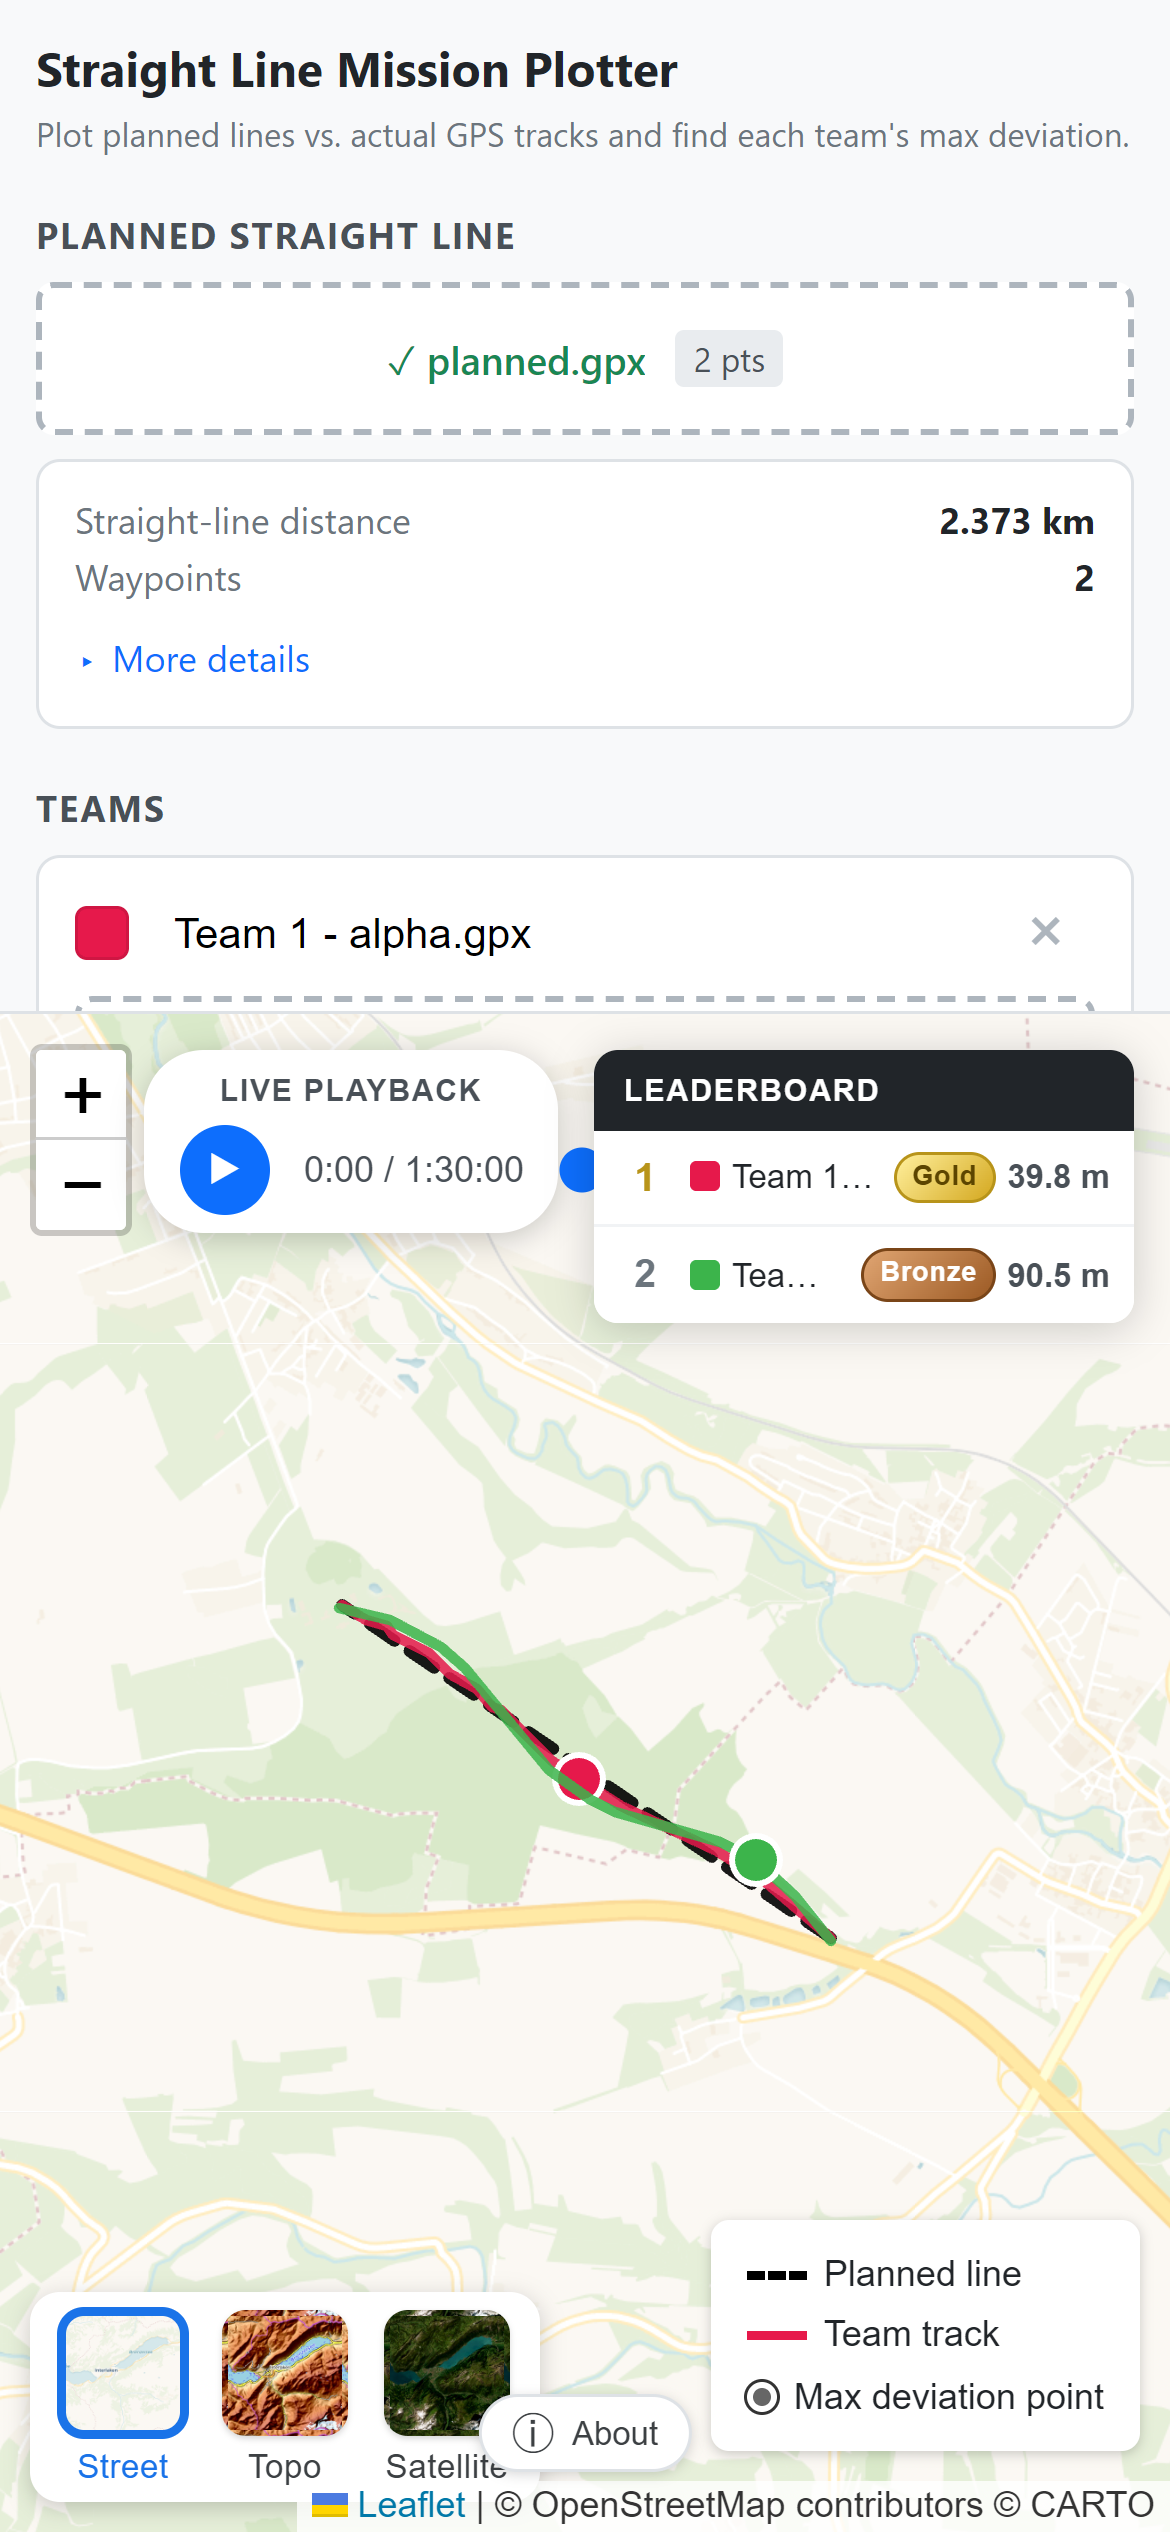
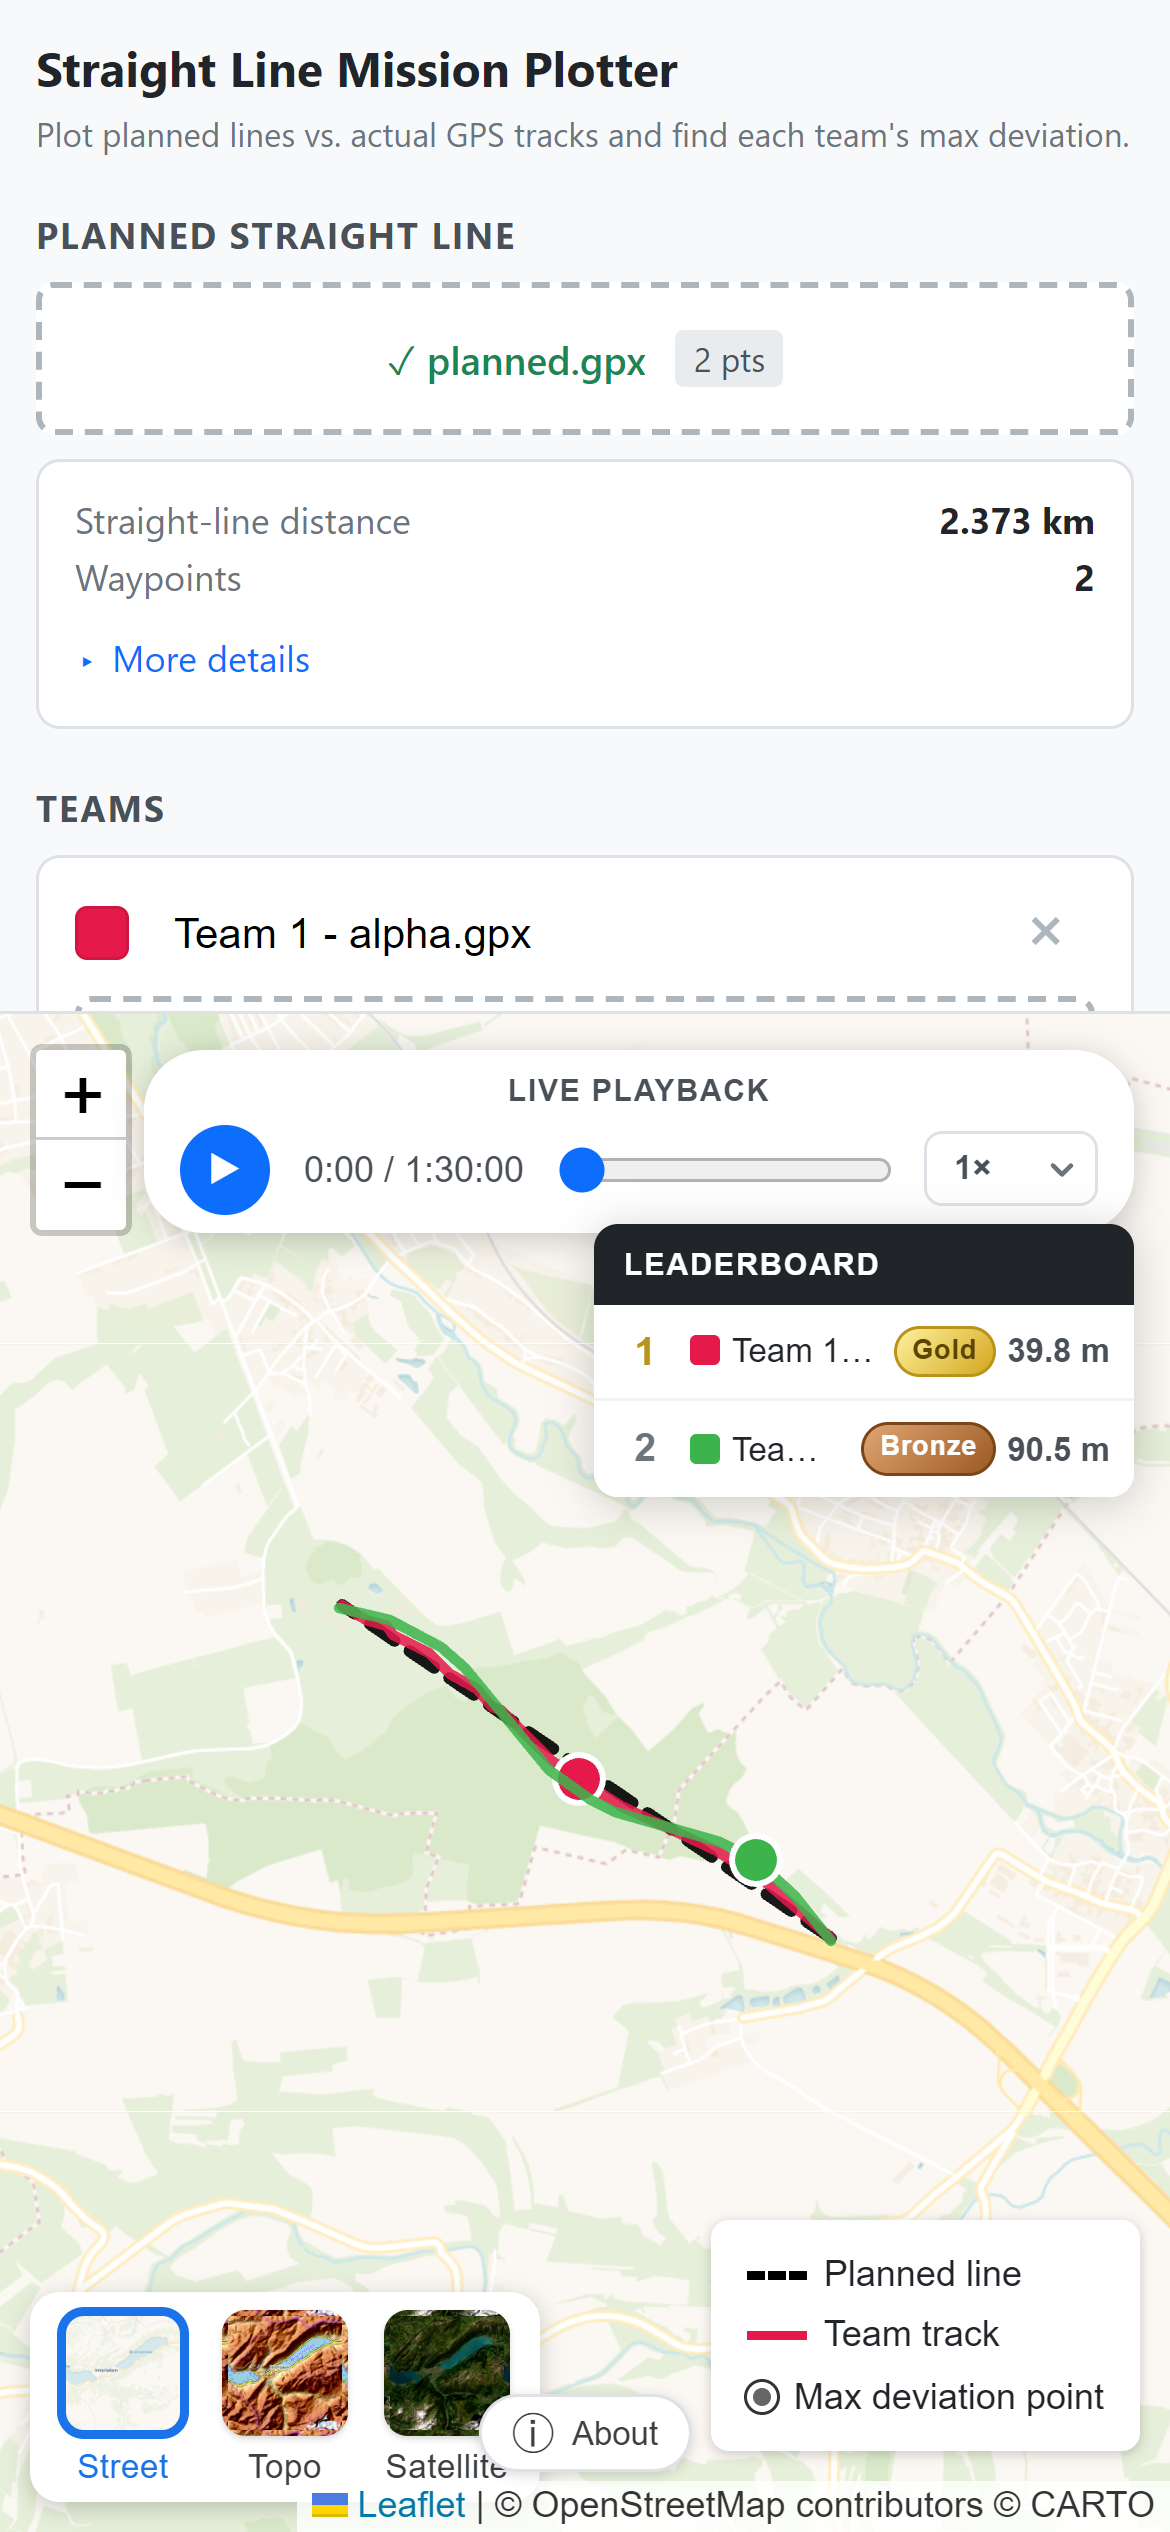
Fix mobile playback bar getting crushed; stack leaderboard below it

Changed region(s): [[0.4308, 0.4056, 0.9846, 0.5928], [0.2769, 0.4056, 0.4, 0.4368], [0.2154, 0.4056, 0.2462, 0.4368]]

diff --git a/index.html b/index.html
@@ -826,11 +826,12 @@
       min-height: 0;
     }
 
-    /* Shrink the leaderboard panel so it doesn't cover the small map. */
+    /* Shrink the leaderboard panel and stack it below the playback bar
+       instead of next to it, so both have full usable width. */
     .leaderboard-panel {
       width: 220px;
       max-width: calc(100% - 24px);
-      top: 12px;
+      top: 70px;
       right: 12px;
     }
     .leaderboard-panel .panel-header {
@@ -846,11 +847,12 @@
     .leaderboard-meta { gap: 4px; }
     .leaderboard-meta .medal { padding: 2px 5px; font-size: 9px; }
 
-    /* Playback bar: smaller offsets so it fits next to a narrower leaderboard. */
+    /* Playback bar: full width below the zoom buttons; leaderboard is
+       stacked below it on mobile so there's no horizontal conflict. */
     .playback-wrap {
       top: 12px;
       left: 48px;
-      right: 244px;
+      right: 12px;
     }
 
     /* Touch-friendlier sidebar controls. */
@@ -875,7 +877,6 @@
   @media (max-width: 480px) {
     #sidebar { max-height: 40vh; padding: 12px; }
     .leaderboard-panel { width: 180px; }
-    .playback-wrap { right: 204px; }
     .basemap-thumb { width: 42px; height: 42px; }
     .basemap-option { width: 50px; }
   }
